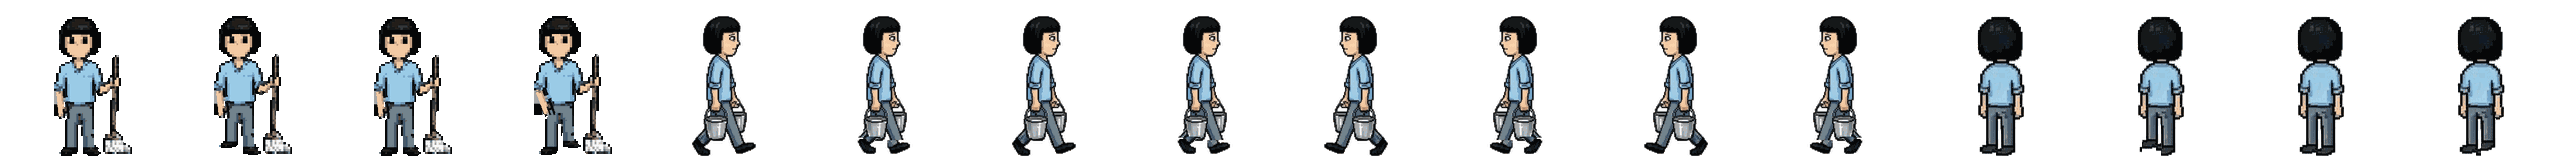
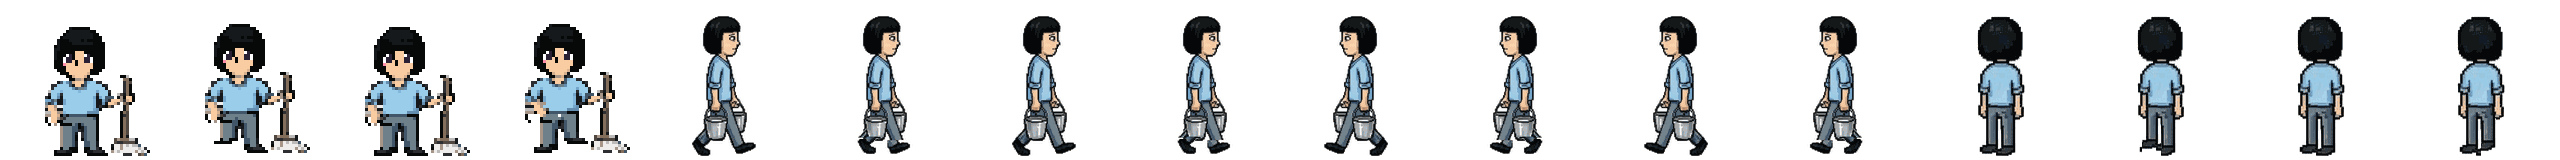
おそうじサバイバー: ツグミの正面の歩きを、48×47 のドット絵に差し替え
Claude-Session: https://claude.ai/code/session_01DurvGQMHvWB6yFst5x6ESN

Changed region(s): [[0.0, 0.2188, 0.25, 0.9688], [0.0, 0.0938, 0.25, 0.1875]]

diff --git a/games/cleaning-survivors/script.js b/games/cleaning-survivors/script.js
@@ -2062,7 +2062,7 @@
   // foot: コマの中の足もとの高さ、tall: 絵の中での背の高さ (どちらもピクセル)
   const SPRITES = {
     cleaner: { src: 'hajime.png', walk: 4 },
-    tsugumi: { src: 'tsugumi.png?v=2', walk: 4 },
+    tsugumi: { src: 'tsugumi.png?v=3', walk: 4 },
   };
   const SPRITE_FW = 160;
   const SPRITE_FH = 160;

diff --git a/games/cleaning-survivors/index.html b/games/cleaning-survivors/index.html
@@ -210,6 +210,6 @@
   <script src="lang/es.js?v=12"></script>
   <script src="lang/it.js?v=12"></script>
   <script src="lang/pt.js?v=12"></script>
-  <script src="script.js?v=39"></script>
+  <script src="script.js?v=40"></script>
 </body>
 </html>

diff --git a/games/cleaning-survivors/SPEC.md b/games/cleaning-survivors/SPEC.md
@@ -430,7 +430,7 @@
 - 清掃員ごとに見た目（服の色・髪型・持っている道具）を変える
 - ハジメとツグミはドット絵のスプライトで描く。画像は 160×160 のコマを横に並べたもので、下・右・左・上の順に向きごとのコマが入る（左は右の左右反転）。歩く向きで向きを変え、掃除機などの向きは攻撃の範囲で見える。画像を読みこむ前は、ほかの清掃員と同じ描き方で描く。プレイ中は顔が見えるように、ほかの清掃員より 1.2 倍大きく描く
   - ハジメ (`hajime.png`): 向きごとに立ち＋歩き3コマの 16 コマ。歩いているあいだは4コマを順に出す。顔が見えるように、肌を元の絵より明るくしてある
-  - ツグミ (`tsugumi.png`): ハジメと同じ 16 コマ。正面の4コマは、スプライト作成ツール (tools/sprite) で作った歩きの絵 (モップを持って片足ずつ上げる)。横 (バケツを持って歩く)・後ろ姿は、元のイラストの足の部分をずらして作った歩きのコマ
+  - ツグミ (`tsugumi.png`): ハジメと同じ 16 コマ。正面の4コマは、スプライト作成ツール (tools/sprite) で作った 48×47 のドット絵の歩き (モップを持って片足ずつ上げる) を、ドットが崩れないようにちょうど3倍にしたもの。横 (バケツを持って歩く)・後ろ姿は、元のイラストの足の部分をずらして作った歩きのコマ
 
 ### 実績（清掃員の記録）
 
